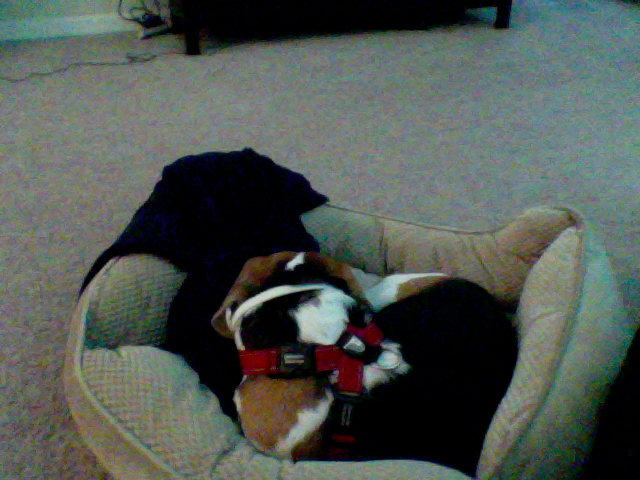
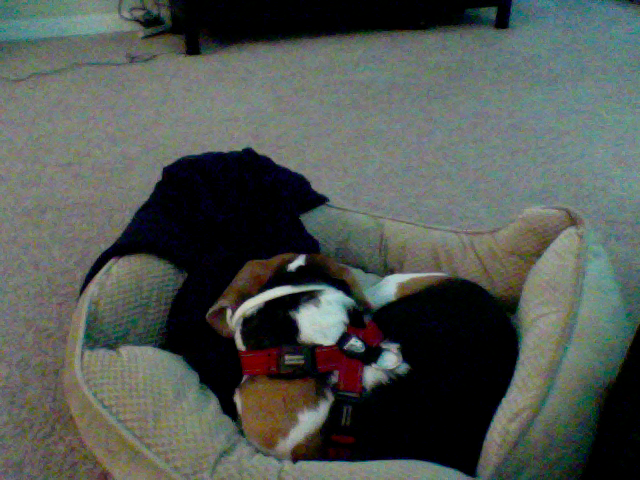
update at Month05Day12Time09:13

diff --git a/index.html b/index.html
@@ -39,8 +39,8 @@
       <!-- Example row of columns -->
       <div class="row">
         <div class="col-md-4">
-	<p>This picture was updated at Month05Day12Time09:12</p>
-		<img src="8_pic.png" />
+	<p>This picture was updated at Month05Day12Time09:13</p>
+		<img src="5_pic.png" />
         </div>
       </div>
 
